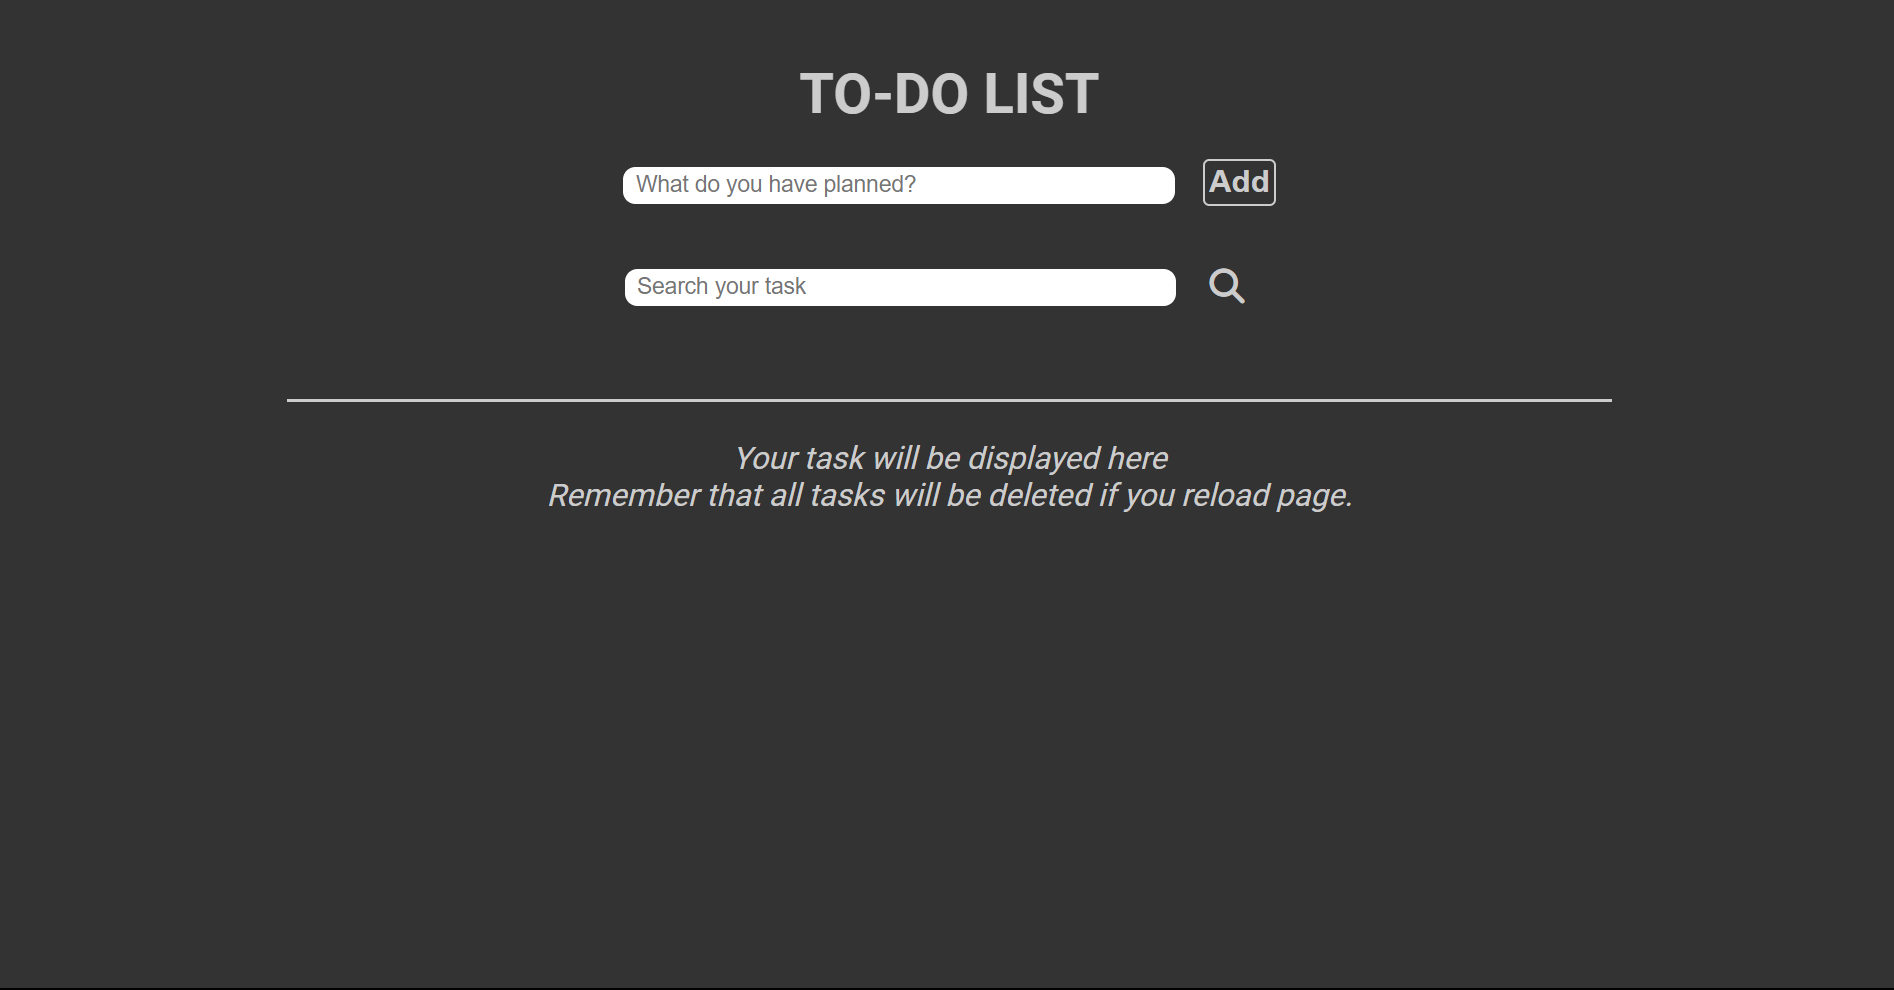
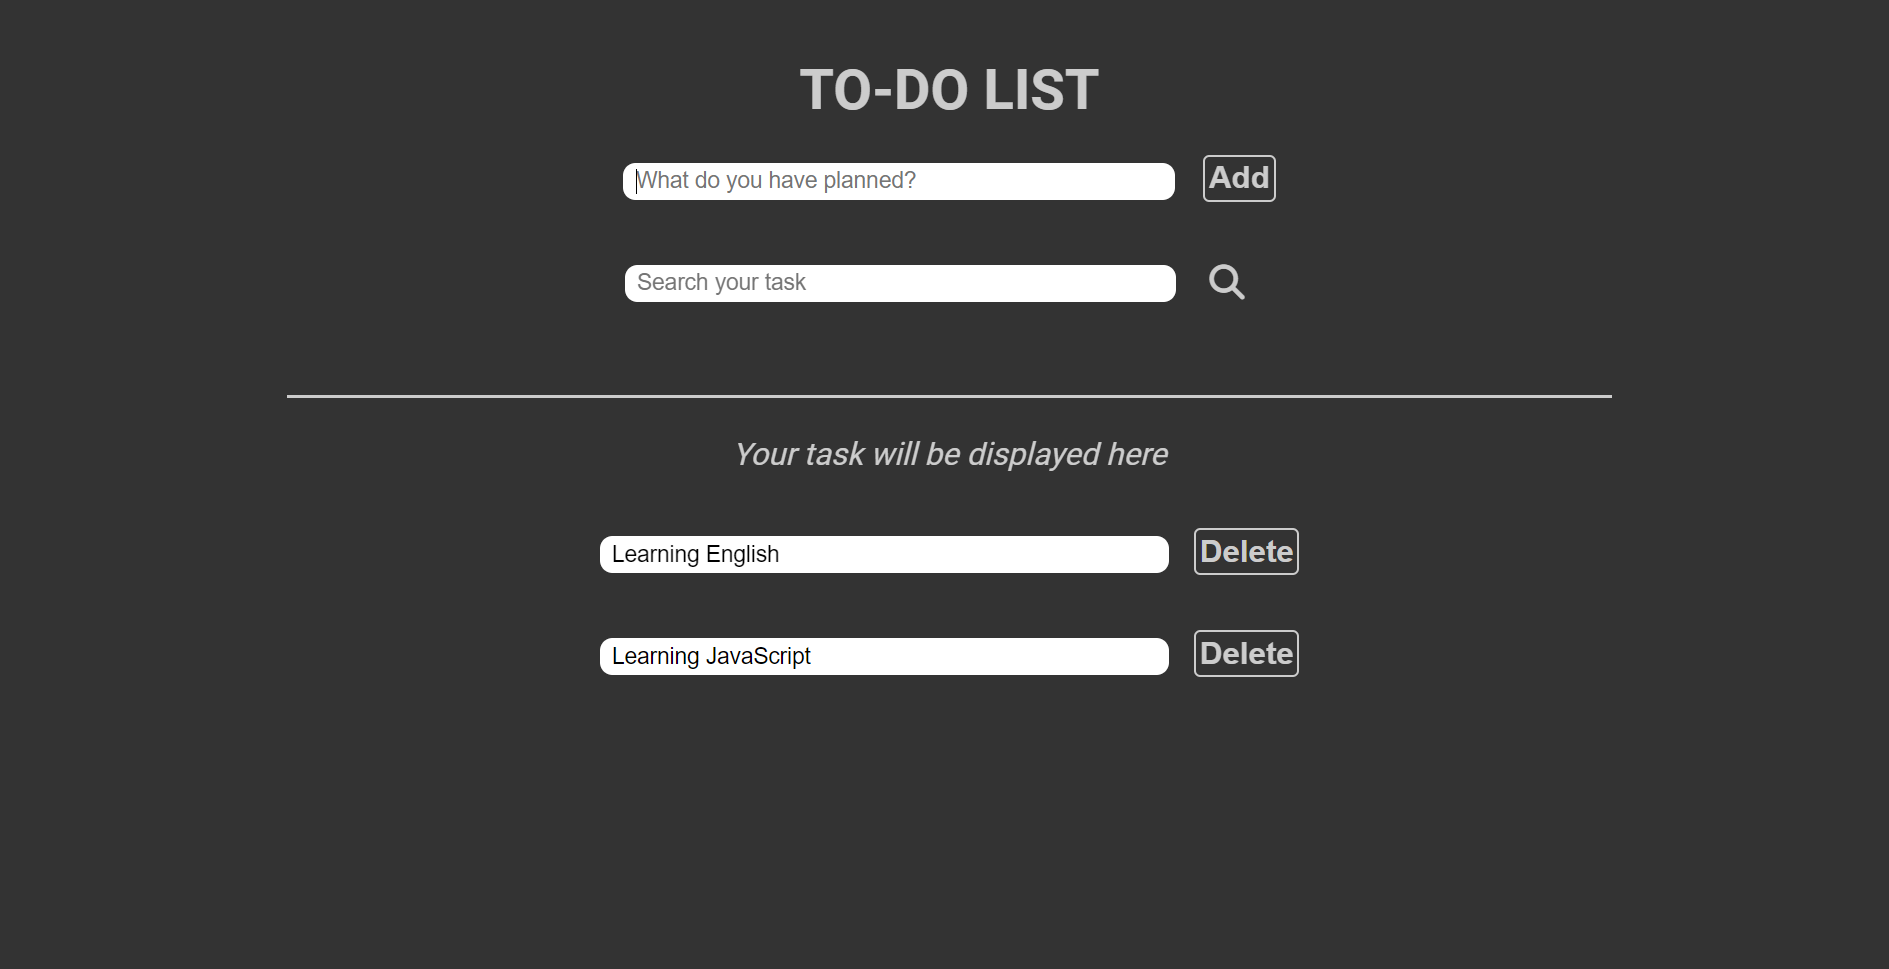
update local storage

diff --git a/main.js b/main.js
@@ -3,7 +3,18 @@ const inputItem = document.getElementById('inputItem');
 const searchItem = document.getElementById('searchItem');
 const taskList = document.getElementById('taskList');
 let tasks = [];
+//load from local storage
+document.addEventListener('DOMContentLoaded', () => {
+    var tasksStorage = localStorage.getItem('tasks');
+    if (tasksStorage) {
+        tasks = JSON.parse(tasksStorage);
+        displayTasks();
+    }
+});
 
+function updateLocalStorage() {
+    localStorage.setItem('tasks', JSON.stringify(tasks));
+}
 //add task section
 addForm.addEventListener('submit', (e) => {
     e.preventDefault();
@@ -17,6 +28,7 @@ addForm.addEventListener('submit', (e) => {
         inputItem.value = '';
         // console.log(task);
         displayTasks();
+        updateLocalStorage();
     }
 });
 
@@ -50,6 +62,7 @@ taskList.addEventListener('click', (e) => {
         var idItem = e.target.parentElement.getAttribute('data-id');
         tasks = tasks.filter((task) => task.id != idItem);
         displayTasks();
+        updateLocalStorage();
     }
 });
 
@@ -63,6 +76,7 @@ taskList.addEventListener('input', (e) => {
                 task.data = newText;
             }
         });
+        updateLocalStorage();
     }
 });
 

diff --git a/index.html b/index.html
@@ -26,9 +26,7 @@
         </div>
         <div class="container">
             <div class="seperateLine"></div>
-            <span class="textContent">Your task will be displayed here <br> 
-            Remember that all tasks will be deleted if you reload page.
-            </span>
+            <span class="textContent">Your task will be displayed here</span>
             <ul id="taskList">
                 <!-- <li class="taskItem">
                     <input class="inputBar" type="text">

diff --git a/README.md b/README.md
@@ -2,8 +2,7 @@
 
 ## Introduction
 This is a simple To-do list made in HTML, CSS and JavaScript.
-The website has some function: Add a task, delete a task, and edit a task.  
-The website don't use local storage to store the data, so all tasks will be deleted if you reload the page.
+The website has some function: Add a task, delete a task, and edit a task.
 
 ## Interface of the website
 There are some demos of the website:  
@@ -13,7 +12,7 @@ There are some demos of the website:
 ![Interface image](./readme-img/web-interface-demo.png)
 
 ## To see the website fully
-Download all files of this project (except the readme file and readme-img folder). Open index.html file and you can see the full website. Or you can visit the website by clicking [HERE](https://simpletodolistwebsite.netlify.app)
+Download all files of this project (except the readme file and readme-img folder). Open index.html file and you can see the full website. Or you can visit the website by clicking [HERE](https://simpletodolistwebsite.netlify.app).
 
  
 
